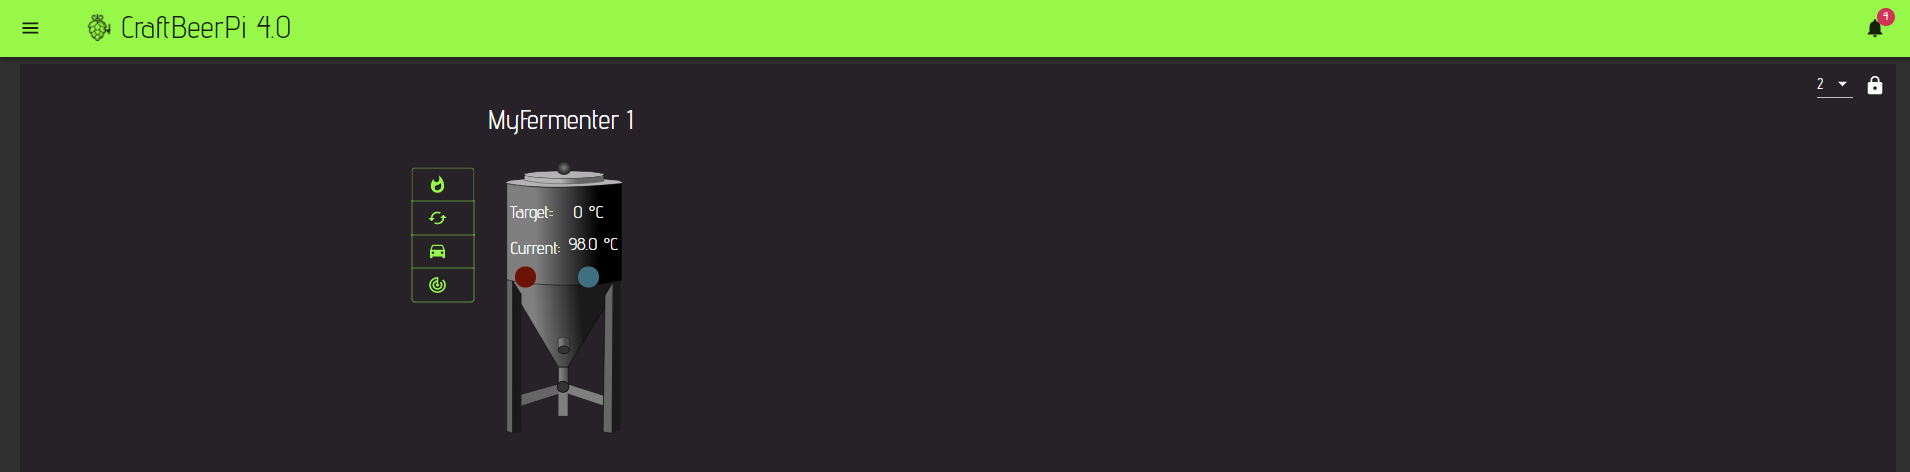
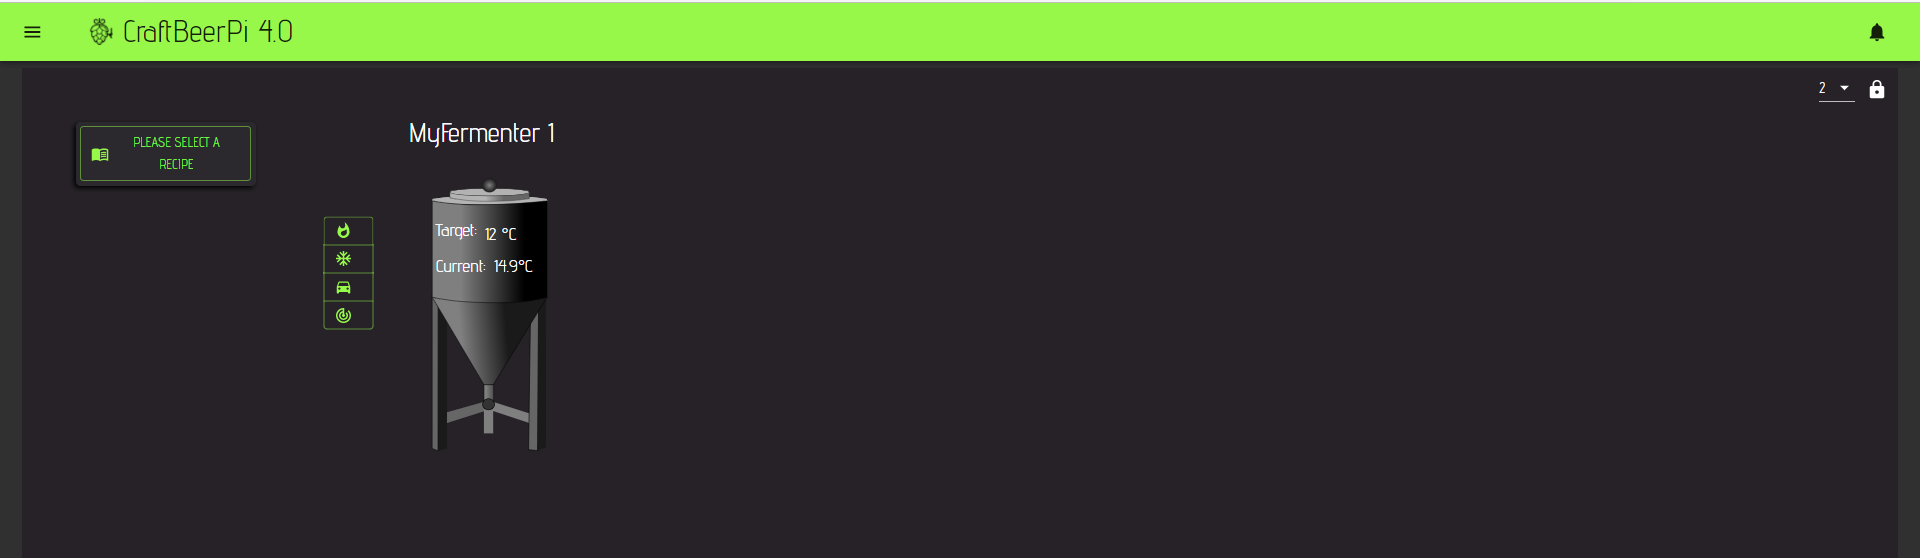
Update setup fermenter dashboard

diff --git a/master/craftbeerpi-4-server/dashboard.md b/master/craftbeerpi-4-server/dashboard.md
@@ -253,10 +253,14 @@ Now you can add also led items to display the activity of the heating or cooling
 
 ![Fermenter with led items added](../../.gitbook/assets/cbpi4-dashboard-fermenter-led.png)
 
+Finally, add a fermenterstep widget to your fermenter dashboard. This is basically the same as for the kettle. Howerver, for this widget you need to select the fermenter for which this widget triggers fermenter steps.
+
+![Fermenter with steps added](../../.gitbook/assets/cbpi4-fermenter-steps.png)
+
 Save your dashboard and lock it.
 
 ![Saved fermenter dashboard](../../.gitbook/assets/cbpi4-dashboard-fermenter-saved.png)
 
-Now you can switch between both dashboards to focus on brewing or fermentation.
+The empty recipe widget will bring you to the fermenter recipe book, where you can create or select existing recipes for this fermenter. Now you can switch between both dashboards to focus on brewing or fermentation.
 
 How to operate the fermenter will be shown in the section [Operating your system](../operating-your-system.md).
